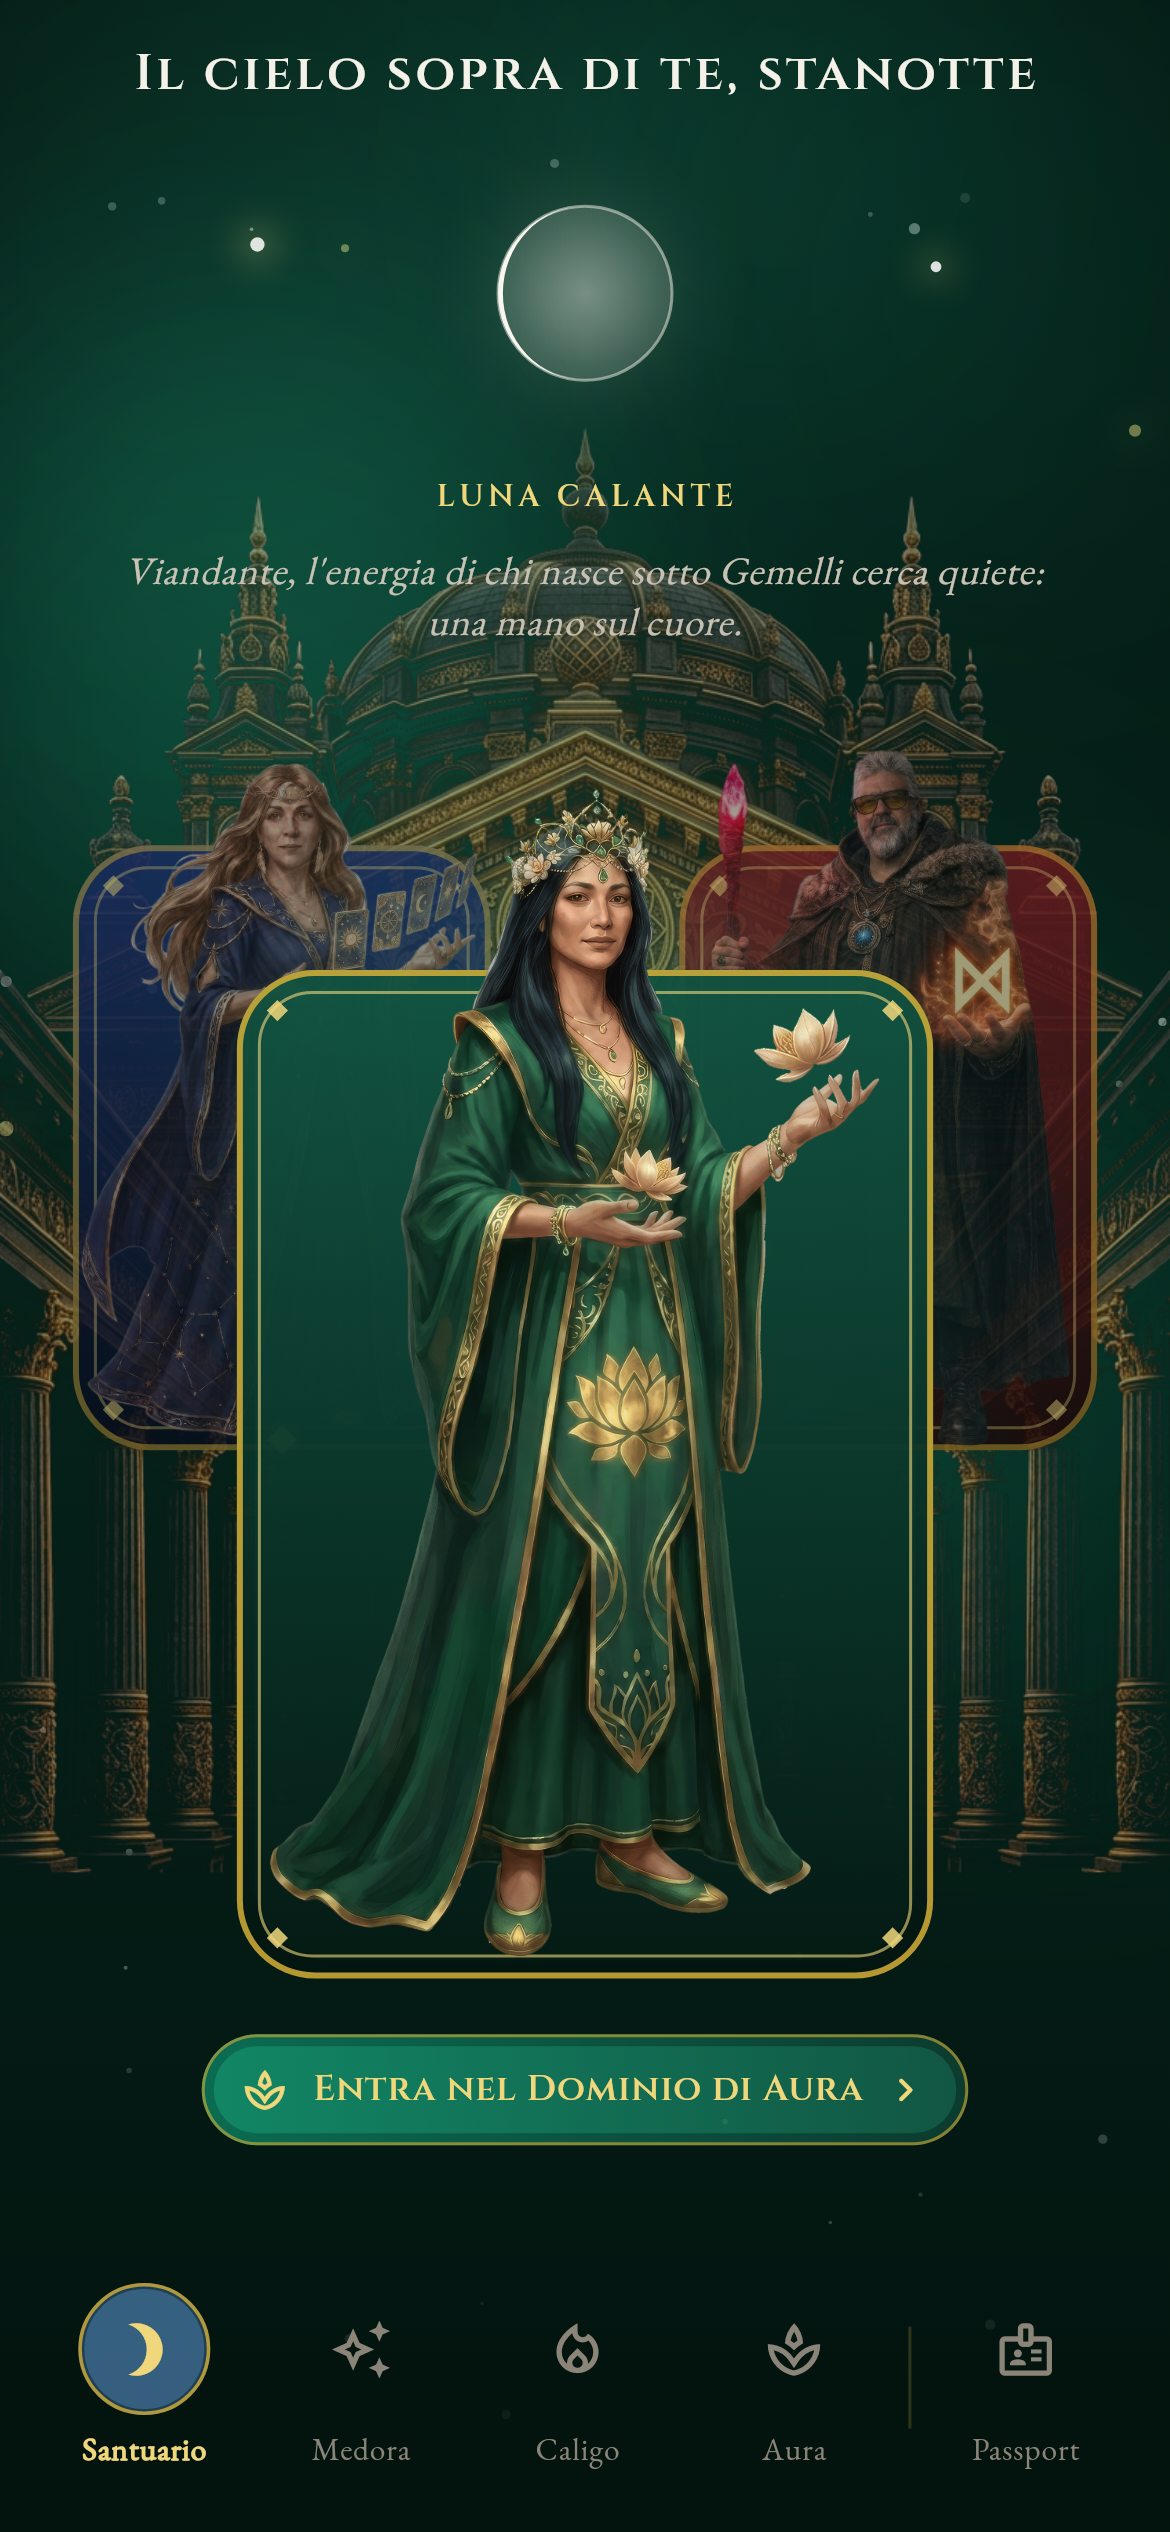
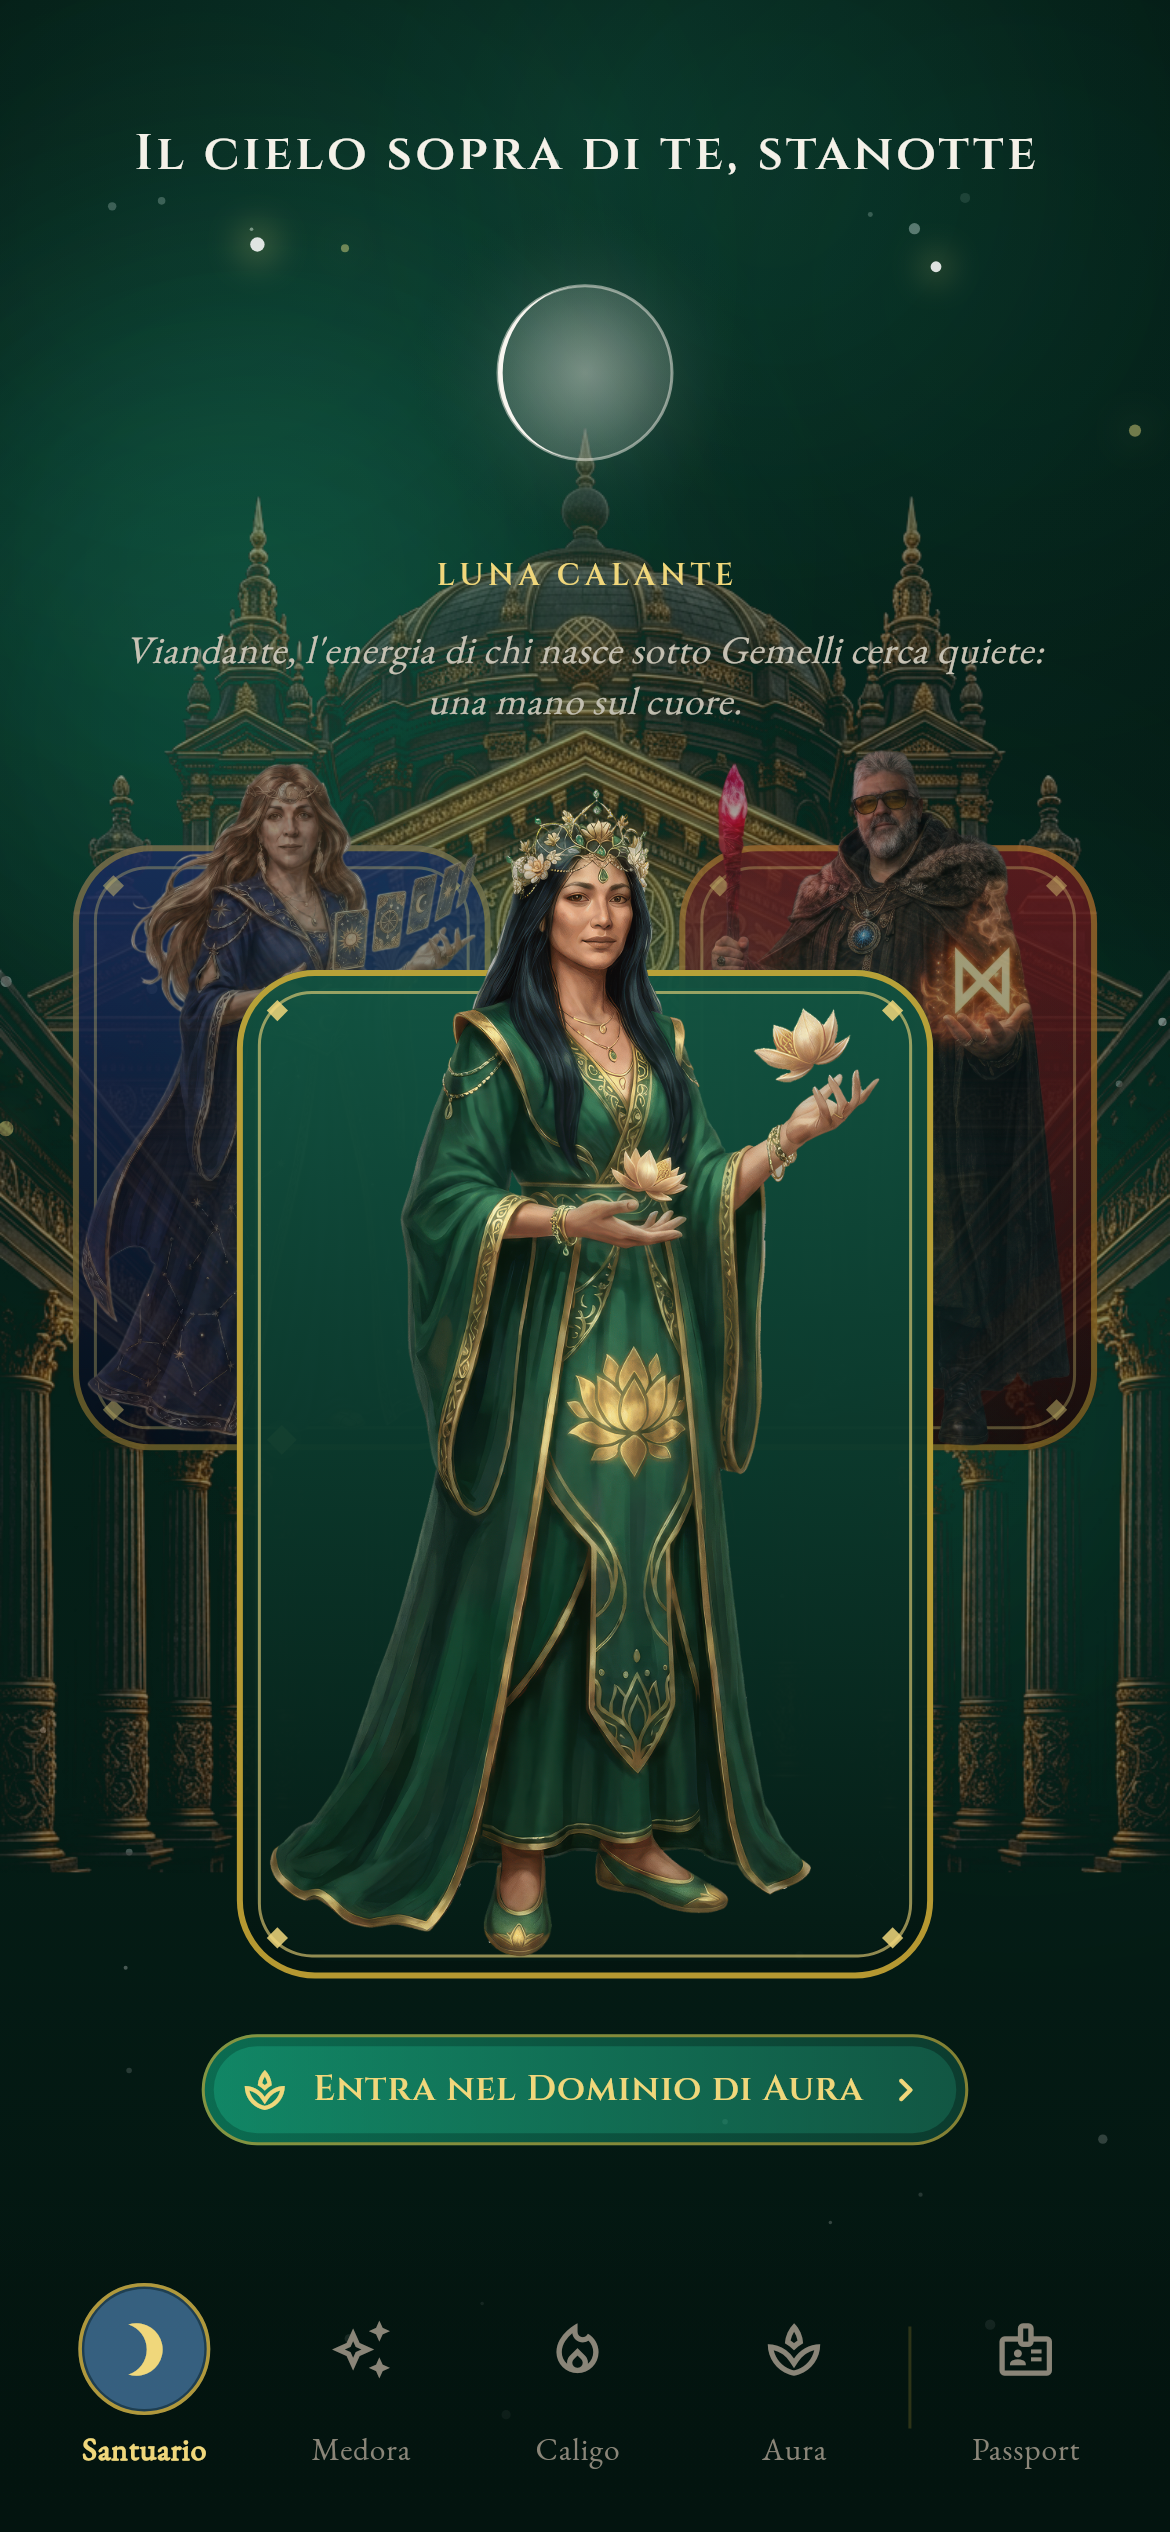
Santuario: margine del titolo e mano dell'invito accanto alla Luna
1. Titolo "Il cielo sopra di te, stanotte" con un margine comodo in cima,
   oltre la safe area, cosi' resta staccato dal bordo e non finisce mai
   sotto il notch o l'isola dinamica.
2. Mano dell'invito al tocco spostata in alto, accanto alla Luna, nella zona
   del cielo: invita a toccare il cielo e non i Maestri. E' un overlay
   trasparente ai tocchi, che passano alla zona toccabile del cielo
   sottostante, cosi' mano e zona coincidono in quell'area alta.
3. Aggiunta la cattura headless dello stato con l'invito visibile, con font e
   immagini caricati (docs/preview/santuario-invito.png), per giudicarne
   l'aspetto reale.

Screenshot del Santuario rigenerati.

Claude-Session: https://claude.ai/code/session_01Bk13X9buChdcJyAhRjA85x

diff --git a/lib/features/santuario/santuario_screen.dart b/lib/features/santuario/santuario_screen.dart
@@ -239,9 +239,11 @@ class _SantuarioScreenState extends State<SantuarioScreen>
               // Il cielo in alto e' toccabile: apre "Il cielo sopra di te".
               // Ordine pulito, poco testo: prima il titolo, poi la grafica
               // della Luna con l'occhiello della fase, poi la riga personale
-              // nella voce del Maestro al centro.
+              // nella voce del Maestro al centro. Un margine comodo in cima
+              // (oltre la safe area) tiene il titolo staccato dal bordo, mai
+              // sotto il notch o l'isola dinamica.
               Positioned(
-                top: h * 0.02,
+                top: h * 0.045 + 8,
                 left: 0,
                 right: 0,
                 child: GestureDetector(
@@ -281,15 +283,30 @@ class _SantuarioScreenState extends State<SantuarioScreen>
                           ),
                         ),
                       ),
-                      // Invito al tocco, dopo qualche secondo di inattivita':
-                      // una mano che pulsa, si dissolve alla prima interazione.
-                      _SkyTapHint(
-                        visible: _showSkyHint,
-                        pulse: _tapPulse,
-                        reduceMotion: reduceMotion,
-                        color: palette.goldSoft,
-                      ),
                     ],
+                  ),
+                ),
+              ),
+
+              // Invito al tocco del cielo: in alto, accanto alla Luna, cosi'
+              // invita a toccare il cielo e non i Maestri. E' sopra la scena ma
+              // trasparente ai tocchi, che passano alla zona toccabile del
+              // cielo sottostante: mano e zona coincidono in quest'area alta.
+              // Compare dopo qualche secondo, si dissolve alla prima
+              // interazione, ferma con Riduci Movimento.
+              Positioned(
+                top: h * 0.095,
+                left: 0,
+                right: 0,
+                child: IgnorePointer(
+                  child: Align(
+                    alignment: const Alignment(0.55, 0),
+                    child: _SkyTapHint(
+                      visible: _showSkyHint,
+                      pulse: _tapPulse,
+                      reduceMotion: reduceMotion,
+                      color: palette.goldSoft,
+                    ),
                   ),
                 ),
               ),
@@ -555,7 +572,7 @@ class _SkyTapHint extends StatelessWidget {
         opacity: visible ? 1 : 0,
         duration: const Duration(milliseconds: 400),
         child: !visible
-            ? const SizedBox(width: double.infinity)
+            ? const SizedBox.shrink()
             : Padding(
                 padding: const EdgeInsets.only(top: 10),
                 child: Column(

diff --git a/test/screenshot_capture_test.dart b/test/screenshot_capture_test.dart
@@ -251,6 +251,24 @@ void main() {
     });
   }
 
+  // --- Il Santuario con l'invito al cielo visibile (mano del tap) ---
+  testWidgets('Cattura il Santuario con l\'invito al cielo', (tester) async {
+    silenceSensors();
+    await loadFonts();
+    final rootKey =
+        await mount(tester, await buildServices(Maestro.medora, seeded: false));
+    selectCentral(tester, Maestro.medora);
+    await step(tester);
+    await precacheFaces(tester);
+    // Oltre i tre secondi di inattivita', senza toccare nulla, cosi' l'invito
+    // compare; poi qualche frame perche' la dissolvenza e l'animazione si
+    // assestino a meta' gesto.
+    await tester.pump(const Duration(milliseconds: 3200));
+    await tester.pump(const Duration(milliseconds: 300));
+    await tester.pump(const Duration(milliseconds: 300));
+    await capture(tester, rootKey, 'santuario-invito.png');
+  });
+
   // --- L'hub di dominio e il Cosmic Passport ---
   testWidgets('Cattura l\'hub di dominio, medora', (tester) async {
     silenceSensors();
